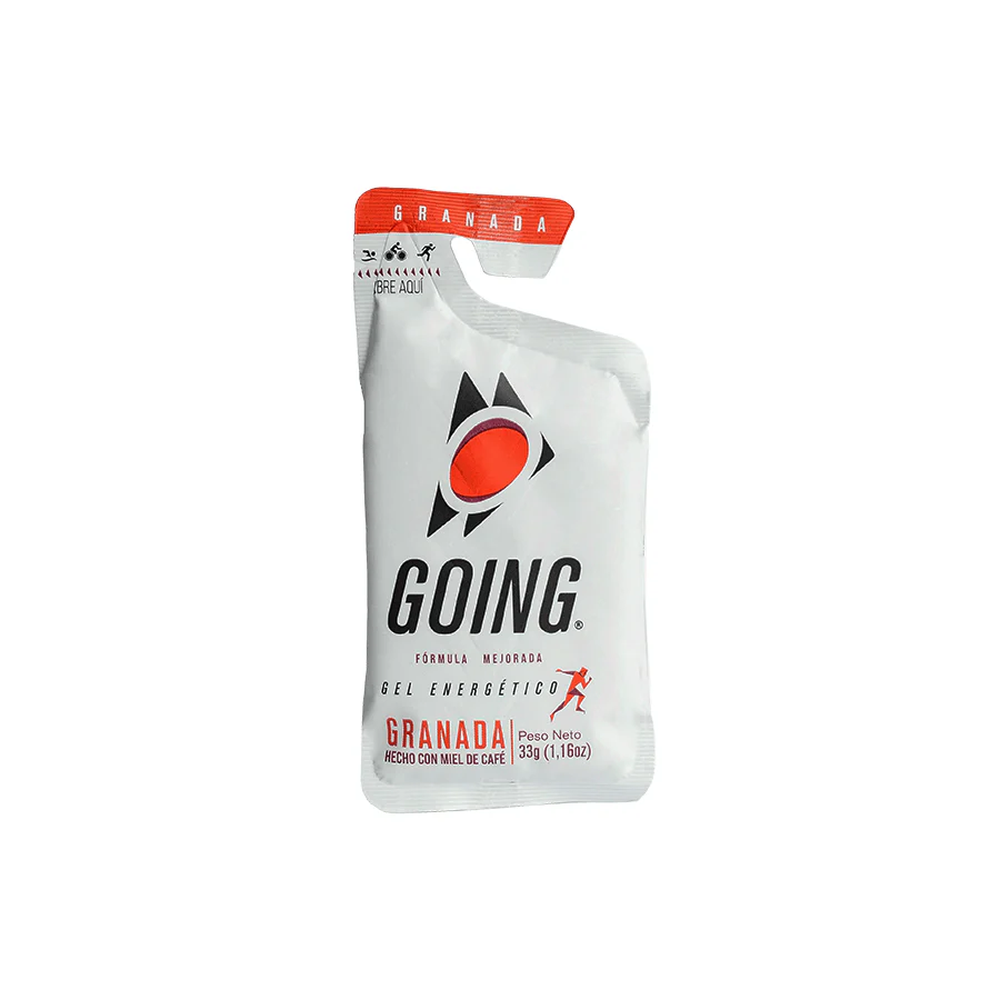
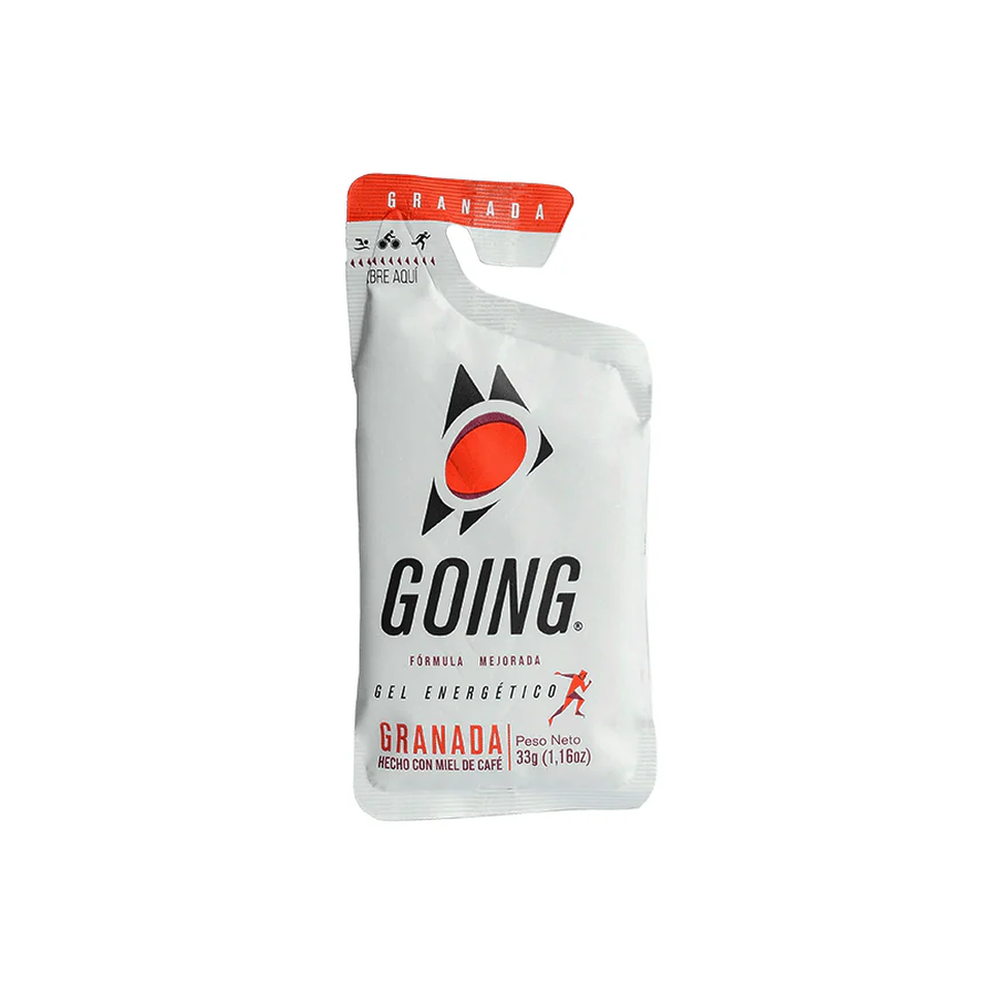
Normalizar tamaño de producto en fotos de gel Going y botón Agregar al carrito en negro sólido
- Los 4 geles (Fresa, Granada, Guayaba, Café) se recortan al contenido real
  y se reescalan a la misma proporción exacta (66% de alto) para que el
  producto se vea del mismo tamaño en cualquier fila de tarjetas
- Botón "Agregar al carrito": fondo negro sólido, texto blanco (antes era
  contorno negro sobre blanco)

Changed region(s): [[0.341, 0.155, 0.589, 0.806], [0.372, 0.775, 0.651, 0.837], [0.527, 0.31, 0.62, 0.341]]

diff --git a/styles.css b/styles.css
@@ -956,7 +956,7 @@ button.pill:hover{ border-color: var(--ink); }
   width: 100%;
   margin-top: var(--sp-3);
   padding: 10px 16px;
-  background: none;
+  background: var(--ink);
   border: 1.5px solid var(--ink);
   border-radius: var(--r-pill);
   font-family: var(--font-mono, monospace);
@@ -964,11 +964,11 @@ button.pill:hover{ border-color: var(--ink); }
   font-weight: 700;
   letter-spacing: .06em;
   text-transform: uppercase;
-  color: var(--ink);
+  color: #fff;
   cursor: pointer;
-  transition: background var(--ease), color var(--ease);
+  transition: background var(--ease), opacity var(--ease);
 }
-.product-add-btn:hover{ background: var(--ink); color: #fff; }
+.product-add-btn:hover{ opacity: .85; }
 .product-add-btn.added{ background: var(--ok); border-color: var(--ok); color: #fff; }
 
 /* ==========================================================================

diff --git a/categoria.html b/categoria.html
@@ -16,7 +16,7 @@
 <link rel="preconnect" href="https://fonts.googleapis.com">
 <link rel="preconnect" href="https://fonts.gstatic.com" crossorigin>
 <link href="https://fonts.googleapis.com/css2?family=Anton&family=Inter:wght@400;500;600;700&family=Space+Mono:wght@400;700&display=swap" rel="stylesheet">
-<link rel="stylesheet" href="styles.css?v=42">
+<link rel="stylesheet" href="styles.css?v=43">
 </head>
 <body>
 
@@ -1112,6 +1112,6 @@
   </div>
 </footer>
 
-<script src="app.js?v=34"></script>
+<script src="app.js?v=35"></script>
 </body>
 </html>

diff --git a/articulo.html b/articulo.html
@@ -16,7 +16,7 @@
 <link rel="preconnect" href="https://fonts.googleapis.com">
 <link rel="preconnect" href="https://fonts.gstatic.com" crossorigin>
 <link href="https://fonts.googleapis.com/css2?family=Anton&family=Inter:wght@400;500;600;700&family=Space+Mono:wght@400;700&display=swap" rel="stylesheet">
-<link rel="stylesheet" href="styles.css?v=42">
+<link rel="stylesheet" href="styles.css?v=43">
 </head>
 <body>
 
@@ -354,6 +354,6 @@
   </div>
 </footer>
 
-<script src="app.js?v=34"></script>
+<script src="app.js?v=35"></script>
 </body>
 </html>

diff --git a/busqueda.html b/busqueda.html
@@ -16,7 +16,7 @@
 <link rel="preconnect" href="https://fonts.googleapis.com">
 <link rel="preconnect" href="https://fonts.gstatic.com" crossorigin>
 <link href="https://fonts.googleapis.com/css2?family=Anton&family=Inter:wght@400;500;600;700&family=Space+Mono:wght@400;700&display=swap" rel="stylesheet">
-<link rel="stylesheet" href="styles.css?v=42">
+<link rel="stylesheet" href="styles.css?v=43">
 </head>
 <body>
 
@@ -473,6 +473,6 @@
   </div>
 </footer>
 
-<script src="app.js?v=34"></script>
+<script src="app.js?v=35"></script>
 </body>
 </html>

diff --git a/carrito.html b/carrito.html
@@ -16,7 +16,7 @@
 <link rel="preconnect" href="https://fonts.googleapis.com">
 <link rel="preconnect" href="https://fonts.gstatic.com" crossorigin>
 <link href="https://fonts.googleapis.com/css2?family=Anton&family=Inter:wght@400;500;600;700&family=Space+Mono:wght@400;700&display=swap" rel="stylesheet">
-<link rel="stylesheet" href="styles.css?v=42">
+<link rel="stylesheet" href="styles.css?v=43">
 </head>
 <body>
 
@@ -339,6 +339,6 @@
   </div>
 </footer>
 
-<script src="app.js?v=34"></script>
+<script src="app.js?v=35"></script>
 </body>
 </html>

diff --git a/guias.html b/guias.html
@@ -16,7 +16,7 @@
 <link rel="preconnect" href="https://fonts.googleapis.com">
 <link rel="preconnect" href="https://fonts.gstatic.com" crossorigin>
 <link href="https://fonts.googleapis.com/css2?family=Anton&family=Inter:wght@400;500;600;700&family=Space+Mono:wght@400;700&display=swap" rel="stylesheet">
-<link rel="stylesheet" href="styles.css?v=42">
+<link rel="stylesheet" href="styles.css?v=43">
 </head>
 <body>
 
@@ -308,6 +308,6 @@
   </div>
 </footer>
 
-<script src="app.js?v=34"></script>
+<script src="app.js?v=35"></script>
 </body>
 </html>

diff --git a/index.html b/index.html
@@ -16,7 +16,7 @@
 <link rel="preconnect" href="https://fonts.googleapis.com">
 <link rel="preconnect" href="https://fonts.gstatic.com" crossorigin>
 <link href="https://fonts.googleapis.com/css2?family=Anton&family=Inter:wght@400;500;600;700&family=Space+Mono:wght@400;700&display=swap" rel="stylesheet">
-<link rel="stylesheet" href="styles.css?v=42">
+<link rel="stylesheet" href="styles.css?v=43">
 </head>
 <body>
 
@@ -757,6 +757,6 @@
   </div>
 </footer>
 
-<script src="app.js?v=34"></script>
+<script src="app.js?v=35"></script>
 </body>
 </html>

diff --git a/marca-honey.html b/marca-honey.html
@@ -16,7 +16,7 @@
 <link rel="preconnect" href="https://fonts.googleapis.com">
 <link rel="preconnect" href="https://fonts.gstatic.com" crossorigin>
 <link href="https://fonts.googleapis.com/css2?family=Anton&family=Inter:wght@400;500;600;700&family=Space+Mono:wght@400;700&display=swap" rel="stylesheet">
-<link rel="stylesheet" href="styles.css?v=42">
+<link rel="stylesheet" href="styles.css?v=43">
 </head>
 <body>
 
@@ -490,6 +490,6 @@
   </div>
 </footer>
 
-<script src="app.js?v=34"></script>
+<script src="app.js?v=35"></script>
 </body>
 </html>

diff --git a/marca-probar.html b/marca-probar.html
@@ -16,7 +16,7 @@
 <link rel="preconnect" href="https://fonts.googleapis.com">
 <link rel="preconnect" href="https://fonts.gstatic.com" crossorigin>
 <link href="https://fonts.googleapis.com/css2?family=Anton&family=Inter:wght@400;500;600;700&family=Space+Mono:wght@400;700&display=swap" rel="stylesheet">
-<link rel="stylesheet" href="styles.css?v=42">
+<link rel="stylesheet" href="styles.css?v=43">
 </head>
 <body>
 
@@ -388,6 +388,6 @@
   </div>
 </footer>
 
-<script src="app.js?v=34"></script>
+<script src="app.js?v=35"></script>
 </body>
 </html>

diff --git a/marca-saltstick.html b/marca-saltstick.html
@@ -16,7 +16,7 @@
 <link rel="preconnect" href="https://fonts.googleapis.com">
 <link rel="preconnect" href="https://fonts.gstatic.com" crossorigin>
 <link href="https://fonts.googleapis.com/css2?family=Anton&family=Inter:wght@400;500;600;700&family=Space+Mono:wght@400;700&display=swap" rel="stylesheet">
-<link rel="stylesheet" href="styles.css?v=42">
+<link rel="stylesheet" href="styles.css?v=43">
 </head>
 <body>
 
@@ -408,6 +408,6 @@
   </div>
 </footer>
 
-<script src="app.js?v=34"></script>
+<script src="app.js?v=35"></script>
 </body>
 </html>

diff --git a/marca-skratch.html b/marca-skratch.html
@@ -16,7 +16,7 @@
 <link rel="preconnect" href="https://fonts.googleapis.com">
 <link rel="preconnect" href="https://fonts.gstatic.com" crossorigin>
 <link href="https://fonts.googleapis.com/css2?family=Anton&family=Inter:wght@400;500;600;700&family=Space+Mono:wght@400;700&display=swap" rel="stylesheet">
-<link rel="stylesheet" href="styles.css?v=42">
+<link rel="stylesheet" href="styles.css?v=43">
 </head>
 <body>
 
@@ -389,6 +389,6 @@
   </div>
 </footer>
 
-<script src="app.js?v=34"></script>
+<script src="app.js?v=35"></script>
 </body>
 </html>

diff --git a/marca.html b/marca.html
@@ -16,7 +16,7 @@
 <link rel="preconnect" href="https://fonts.googleapis.com">
 <link rel="preconnect" href="https://fonts.gstatic.com" crossorigin>
 <link href="https://fonts.googleapis.com/css2?family=Anton&family=Inter:wght@400;500;600;700&family=Space+Mono:wght@400;700&display=swap" rel="stylesheet">
-<link rel="stylesheet" href="styles.css?v=42">
+<link rel="stylesheet" href="styles.css?v=43">
 </head>
 <body>
 
@@ -632,6 +632,6 @@
   </div>
 </footer>
 
-<script src="app.js?v=34"></script>
+<script src="app.js?v=35"></script>
 </body>
 </html>
